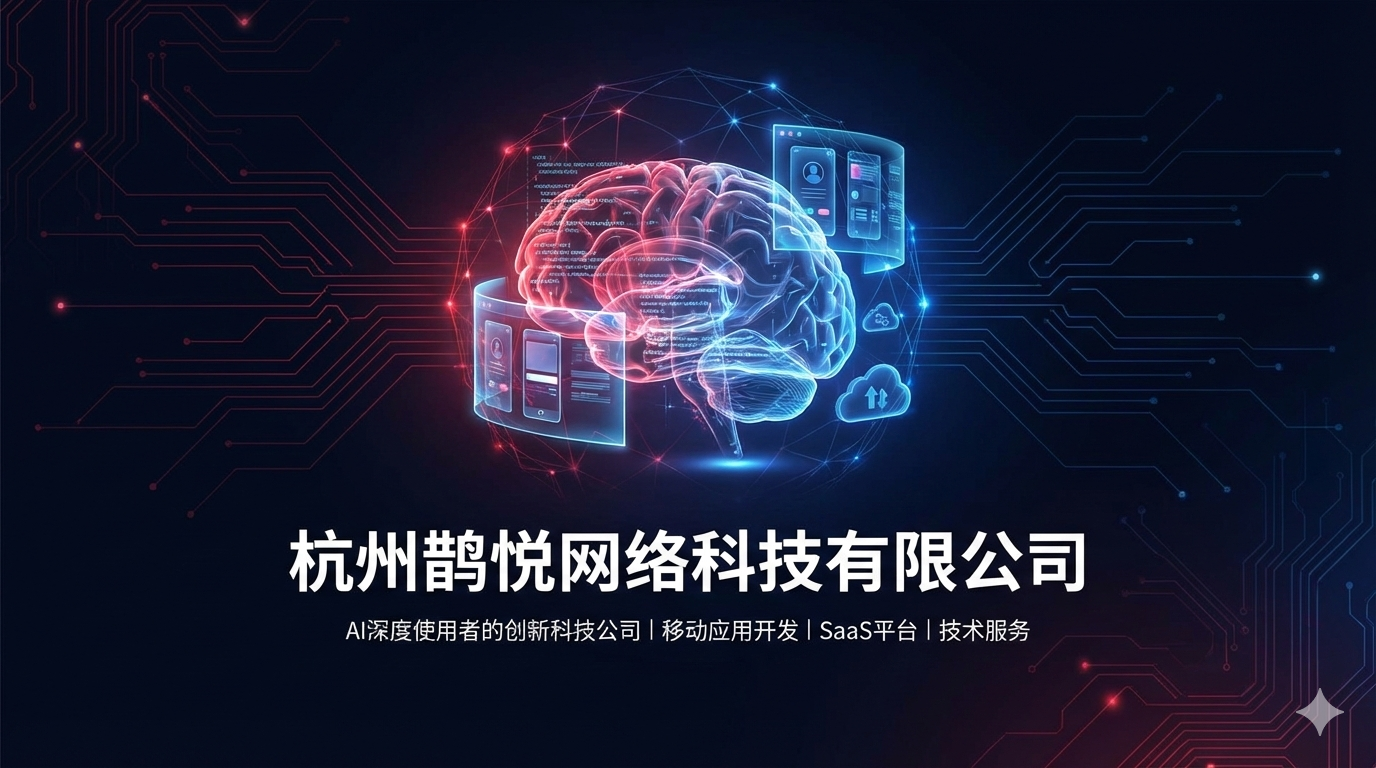
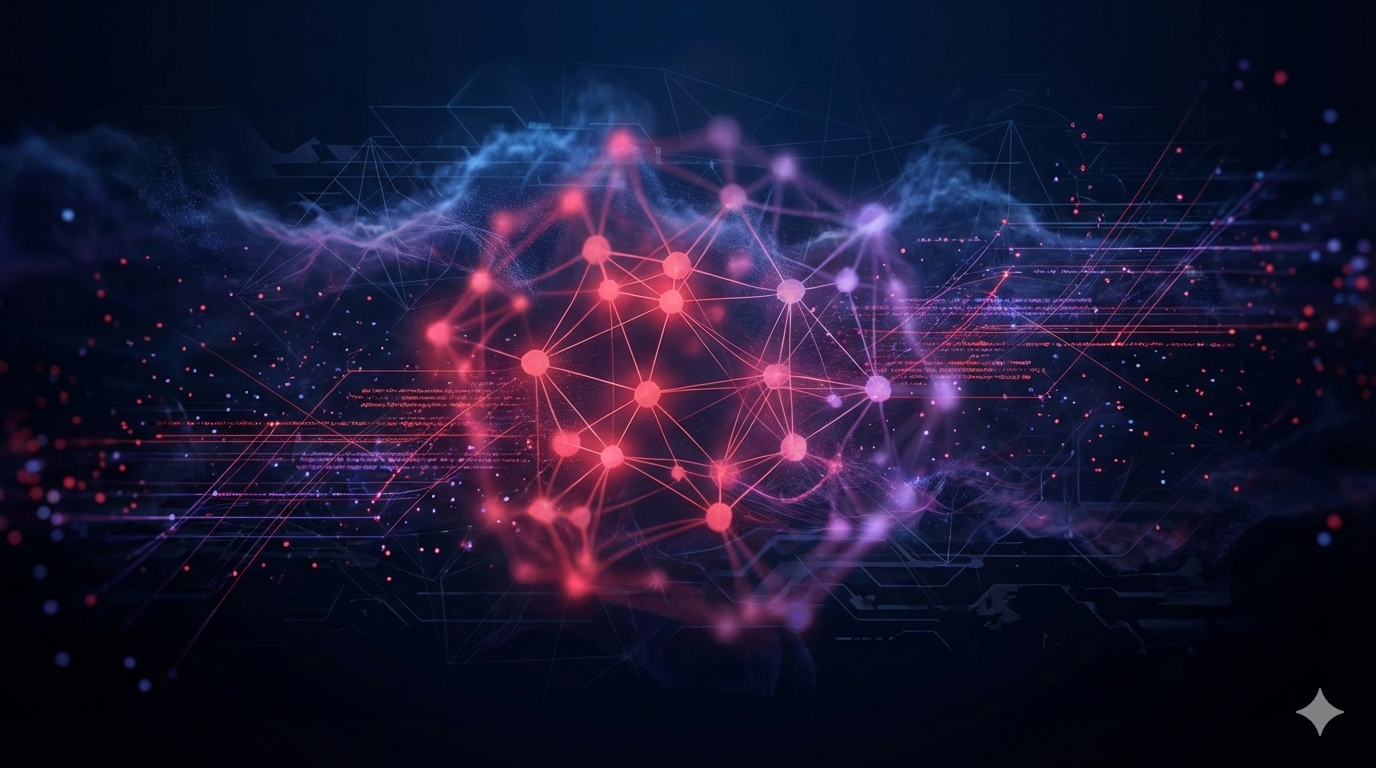
更新氛围图和AI介绍内容

diff --git a/index.html b/index.html
@@ -621,6 +621,8 @@
                     杭州鹊悦网络科技有限公司是一家专注于互联网技术创新与应用开发的科技企业。我们立足于移动互联网领域，围绕用户需求，持续探索前沿技术，为企业和个人用户提供高质量的移动应用、SaaS平台及技术服务解决方案。
 
                     团队核心成员拥有丰富的行业经验，秉持"用户至上、技术驱动"的理念，不断追求产品创新与服务卓越。我们相信技术的力量能够创造更美好的生活，致力于通过专业技术为客户创造价值，推动行业发展。
+
+                    <strong>AI 深度融合</strong>：我们积极拥抱人工智能技术，将 AI 深度融入产品开发与业务流程。从智能 UI 设计、AI 辅助编码到数据分析与自动化运营，我们充分利用 AI 提升效率、创造价值，是真正的 AI 深度使用者和实践者。
                 </p>
             </div>
         </div>
